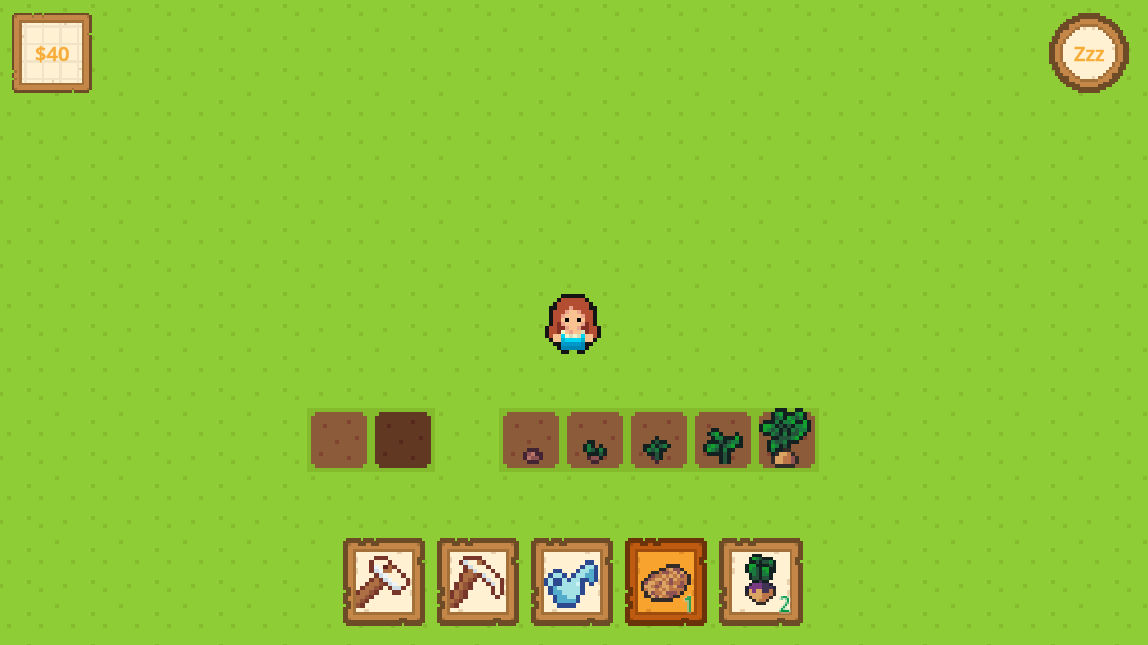
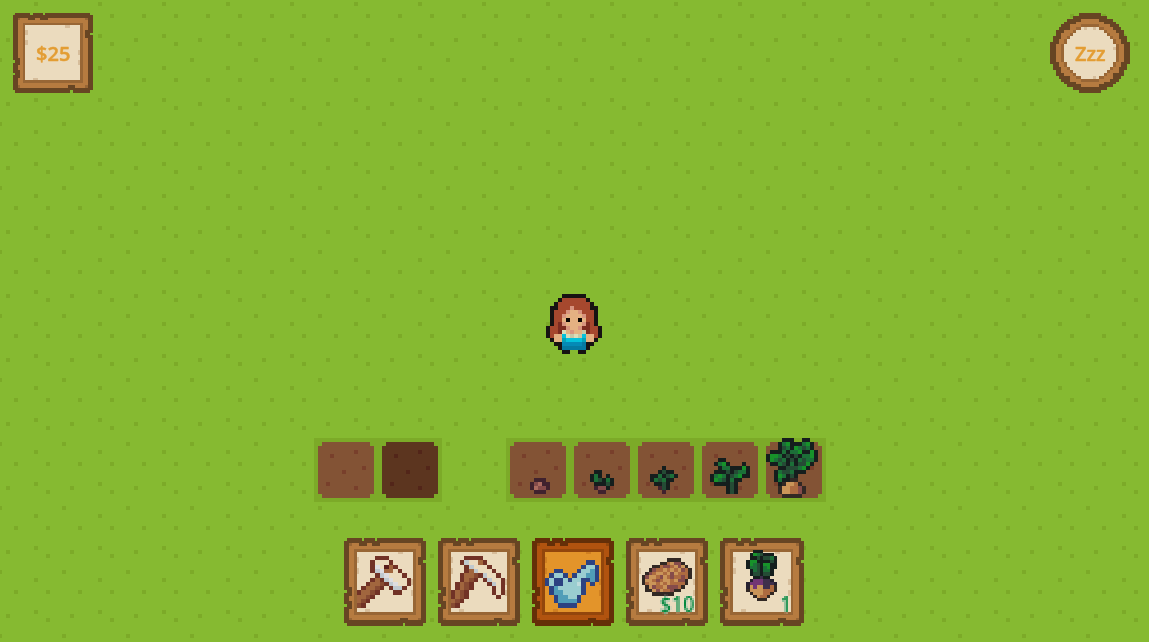
Update the screenshot and the README

Changed region(s): [[0.2439, 0.6231, 0.7317, 0.9969], [0.0, 0.0, 0.0915, 0.1558], [0.4573, 0.4361, 0.5488, 0.5607]]

diff --git a/README.md b/README.md
@@ -1,6 +1,65 @@
 ## RC Godot Farming Game
 
-<img width="640" height="480" alt="pico-8 screenshot" src="screenshot-rc-godot-farm-rpg.png" />
+<img width="640" height="480" alt="godot-farming screenshot" src="screenshot-rc-godot-farm-rpg.png" />
+
+Farming game built at the [The Recurse Center](https://recurse.com) using [Godot](https://godotengine.org/) as a learning project.
+
+The player can prepare the soil, plant seeds, water crops, and harvest them once they are fully grown. Harvested crops are sold automatically, earning money that can be used to buy more seeds.
+
+Each day has a limited number of actions to encourage planning and progression. A day–night overlay provides visual feedback as time advances, and the currently selected item is highlighted in the UI.
+
+## Running the game
+
+Clone the repo:
+```
+git clone https://github.com/nadia-nh/rc-godot-farm-rpg.git
+cd rc-godot-farm-rpg
+```
+
+Run with Godot 4:
+
+Import the project, and run the main scene with the run project button or by pressing `F5`.
+
+Controls - Keyboard based:
+- Arrow keys – Move the player
+- e / enter / spacebar - Use the selected item
+- 1 - Select the hoe tool
+- 2 - Select the schythe tool
+- 3 - Select the watering can tool
+- 4 - Select the potato seeds
+- 5 - Select the turnip seeds
+- n – Advance to the next day
+
+Controls - Mouse based:
+- Arrow keys – Move the player
+- Clicking on the grass - Use the selected item
+- Clicking on an item button – Select a tool or seed
+- Clicking on the next Day button – Advance to the next day
+
+## How the Game Works
+
+The game is structured around a few core systems:
+
+- **GameManager (autoload)**  
+  Tracks global game state such as the current day, money, and selected item, and declares signals used across the system.
+
+- **FarmManager**  
+  Coordinates high-level farm interactions, such as planting crops, buying seeds, and translating player actions into tile updates.
+
+- **Grass / GrassTileData / CropNode / CropData**  
+  Handle the tile-based farming logic:
+  - `Grass` manages the tile map
+  - `GrassTileData` stores per-tile state (tilled, watered, crop reference)
+  - `CropNode` applies crop growth logic and updates sprites
+  - `CropData` stores crop state values
+
+- **InputDispatcher**  
+  Handles keyboard input and notifies the GameManager about relevant state updates (item selection, item use, day advancement).
+
+- **UILayer**  
+  Updates UI elements in response to game state changes, including item buttons, money display, and the next-day button.
+
+The project uses signals extensively to keep systems loosely coupled.
 
 ## Resources
 
